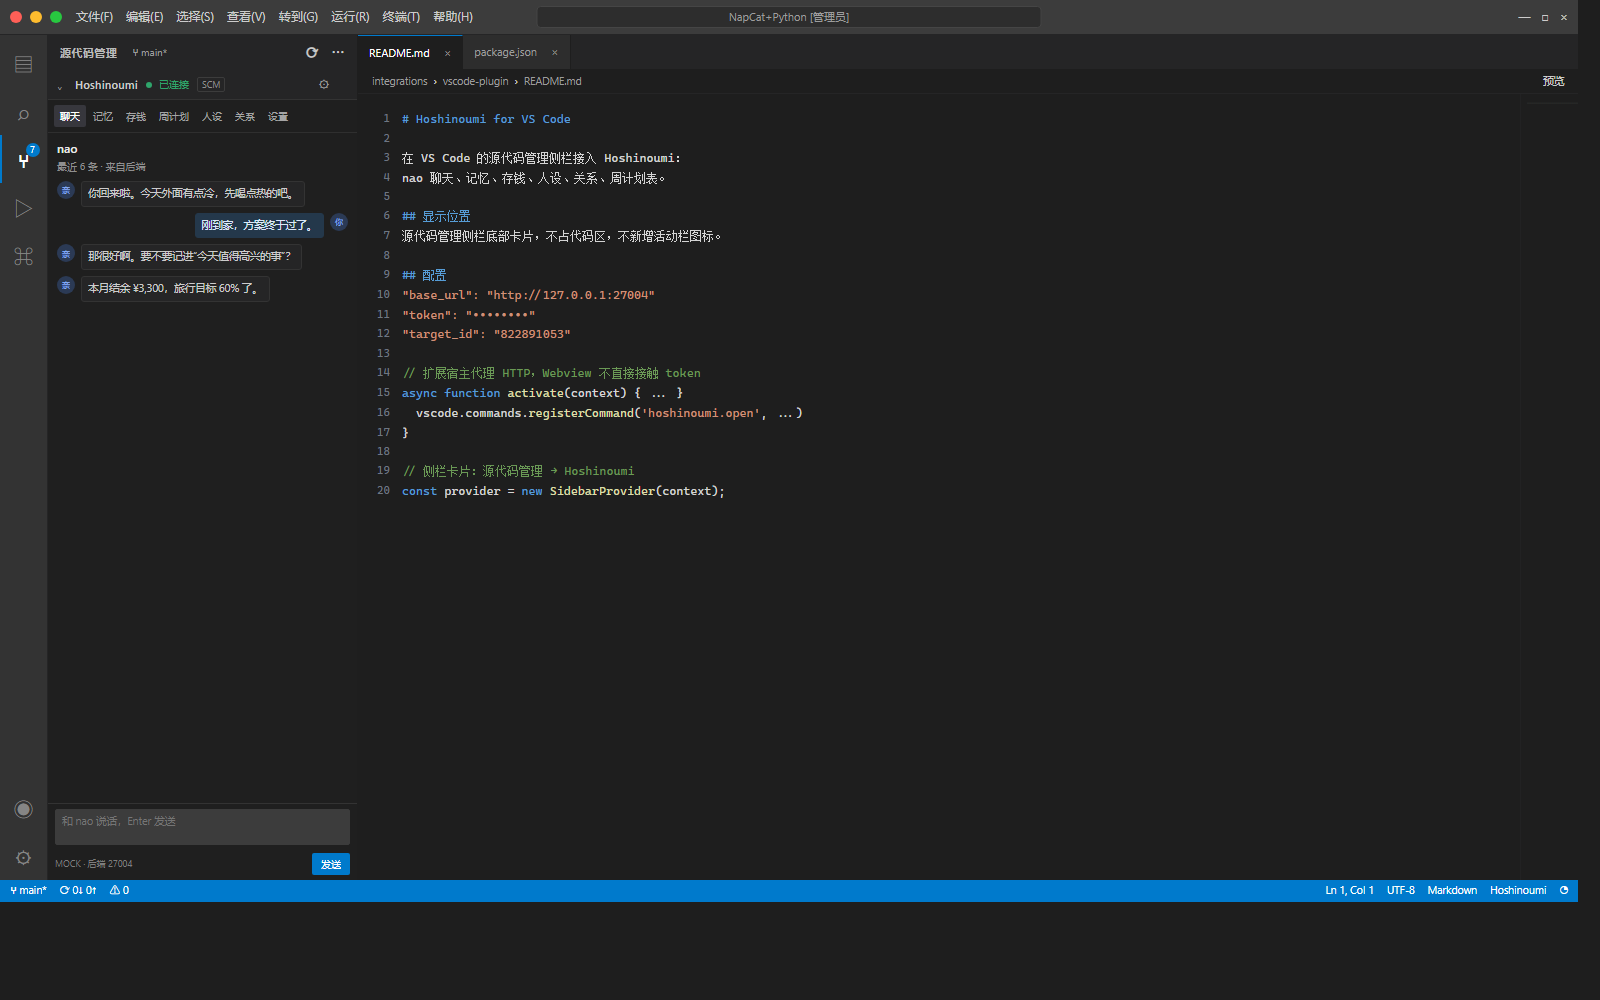
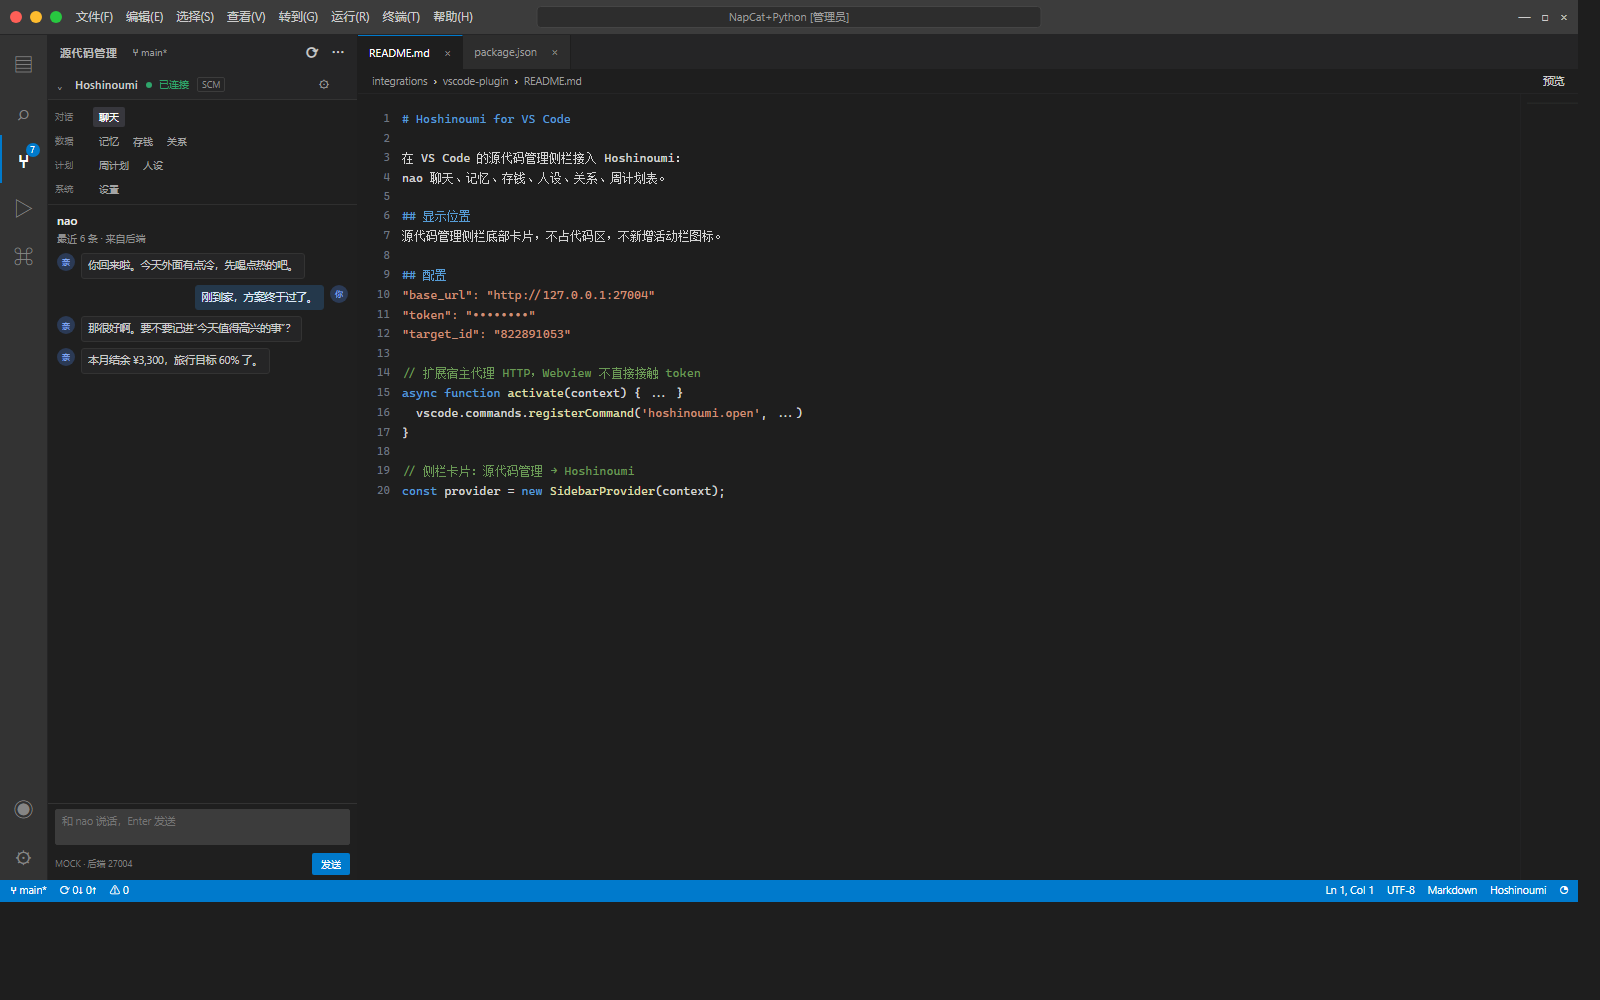
docs(v35): VS Code SCM 板块拆分与开发计划

Changed region(s): [[0.0312, 0.093, 0.2188, 0.372]]

diff --git a/docs/design/v35/vscode/hoshinoumi-sidebar-demo.html b/docs/design/v35/vscode/hoshinoumi-sidebar-demo.html
@@ -75,7 +75,7 @@ button{border:0;background:none;padding:0;cursor:pointer}
 .minimap{width:58px;flex:none;background:#1e1e1e;border-left:1px solid #252526;padding:8px 6px;color:#3a3a3a;font-size:2px;line-height:3px;overflow:hidden;opacity:.65}
 .statusbar{height:22px;flex:none;background:#007acc;color:#fff;display:flex;align-items:center;gap:13px;padding:0 10px;font-size:10.5px}.statusbar .right{margin-left:auto;display:flex;gap:13px;align-items:center}.statusbar .icon{font-size:12px}
 .toast{position:fixed;right:16px;bottom:34px;background:#252526;border:1px solid #454545;color:#cccccc;font-size:11px;padding:7px 11px;border-radius:2px;box-shadow:0 4px 16px rgba(0,0,0,.4);opacity:0;transform:translateY(5px);transition:.18s;pointer-events:none;z-index:20}.toast.on{opacity:1;transform:none}
-.scm-head .branch{margin-left:8px;font-size:10px;color:#9d9d9d;font-weight:400;text-transform:none;letter-spacing:0}.h-head .scope{font-size:9px;color:#8f8f8f;border:1px solid #3c3c3c;border-radius:2px;padding:0 4px;margin-left:2px}</style>
+.scm-head .branch{margin-left:8px;font-size:10px;color:#9d9d9d;font-weight:400;text-transform:none;letter-spacing:0}.h-head .scope{font-size:9px;color:#8f8f8f;border:1px solid #3c3c3c;border-radius:2px;padding:0 4px;margin-left:2px}.h-nav{flex:none;padding:5px 7px 3px;border-bottom:1px solid #2f2f2f}.hn-row{display:flex;align-items:center;gap:2px;min-height:24px}.hn-label{width:36px;flex:none;font-size:9px;color:#7d7d7d;letter-spacing:.04em}.hn-row .h-tab{height:20px;padding:0 6px;font-size:10px}</style>
 </head>
 <body>
 <div class="window">
@@ -100,8 +100,11 @@ button{border:0;background:none;padding:0;cursor:pointer}
    <div class="scm-head"><span>源代码管理</span><span class="branch">⑂ main*</span><div class="actions"><span>⟳</span><span>⋯</span></div></div>
    <section class="hoshi" id="hoshi">
     <div class="h-head" onclick="toggleHoshi(event)"><span class="chev" id="chev">⌄</span><b>Hoshinoumi</b><span class="dot"></span><span class="state">已连接</span><span class="scope">SCM</span><span class="act" onclick="event.stopPropagation();toast('Hoshinoumi 设置（模拟）')">⚙</span></div>
-    <div class="h-tabs" id="tabs">
-     <button class="h-tab on" data-p="chat">聊天</button><button class="h-tab" data-p="memory">记忆</button><button class="h-tab" data-p="savings">存钱</button><button class="h-tab" data-p="weekly">周计划</button><button class="h-tab" data-p="persona">人设</button><button class="h-tab" data-p="relation">关系</button><button class="h-tab" data-p="settings">设置</button>
+    <div class="h-nav" id="tabs">
+     <div class="hn-row"><span class="hn-label">对话</span><button class="h-tab on" data-p="chat">聊天</button></div>
+     <div class="hn-row"><span class="hn-label">数据</span><button class="h-tab" data-p="memory">记忆</button><button class="h-tab" data-p="savings">存钱</button><button class="h-tab" data-p="relation">关系</button></div>
+     <div class="hn-row"><span class="hn-label">计划</span><button class="h-tab" data-p="weekly">周计划</button><button class="h-tab" data-p="persona">人设</button></div>
+     <div class="hn-row"><span class="hn-label">系统</span><button class="h-tab" data-p="settings">设置</button></div>
     </div>
     <div class="h-body" id="body"></div>
     <div class="h-compose" id="compose"><textarea id="msg" placeholder="和 nao 说话，Enter 发送"></textarea><div class="h-sendrow"><span class="hint">MOCK · 后端 27004</span><button onclick="send()">发送</button></div></div>

diff --git a/docs/design/v35/vscode/DEVELOPMENT.md b/docs/design/v35/vscode/DEVELOPMENT.md
@@ -1,0 +1,171 @@
+# Hoshinoumi for VS Code · 开发文档
+
+## 1. 定位
+
+一个 VS Code 扩展，在**源代码管理（SCM）整栏**中显示 Hoshinoumi 客户端。
+
+- 不占代码编辑区
+- 不打开额外 WebviewPanel
+- 不做独立命令中心
+- 侧栏宽度约 300–320px
+- 视觉使用 VS Code 主题变量（Dark+ / Light+ 自动适配）
+- 所有数据来自 Hoshinoumi 后端；没有后端时显示未连接，不伪造数据
+
+> VS Code API 不允许扩展替换内置的 Source Control 视图。实现上使用一个 SCM 风格的独立 Activity Bar 容器，整栏显示 Hoshinoumi；视觉效果与设计稿一致，但不覆盖 VS Code 自带的“更改/存储库/图表”。
+
+## 2. 模块拆分
+
+### 2.1 扩展宿主
+
+文件：`integrations/vscode-plugin/extension.js`
+
+职责：
+
+- 读写配置（`context.globalState`）
+- 保存 token，不暴露给 Webview
+- 代理 HTTP 请求到 Hoshinoumi
+- 统一错误、超时、状态码
+- 注册 SCM 侧栏 View
+- 注册命令
+
+不负责：
+
+- 页面渲染
+- 业务文案
+- 直接操作数据库
+
+### 2.2 侧栏壳
+
+文件：`integrations/vscode-plugin/media/sidebar.html`
+
+职责：
+
+- SCM 整栏布局
+- Hoshinoumi 标题、连接状态、折叠
+- 板块导航
+- 页面容器
+- 输入框/发送按钮
+- VS Code 主题变量
+
+### 2.3 业务板块
+
+| 板块 | 主要接口 | 内容 |
+|---|---|---|
+| 聊天 | `history` / `chat` | 最近消息、发送、连接状态 |
+| 记忆 | `/api/memory` | 目标列表、条数、最后一条 |
+| 存钱 | `/api/savings`、`/api/balance`、`/api/savings/entries` | 总余额、账户、API 余额、记一笔 |
+| 周计划 | `/api/weekly-plan`、`/api/weekly-plan/import` | 周次、课程、导入 HTML |
+| 人设 | `/api/persona` | 卡片、文件清单、摘要 |
+| 关系 | `/api/relation` | 亲密度、档位、最近变化 |
+| 设置 | `config` / `test` | 后端地址、token、主人 QQ、连接测试 |
+
+每个板块必须：
+
+- 有加载态
+- 有错误态
+- 有未配置态
+- 不显示上一板块的旧数据
+- 切换板块时保留滚动位置（可选）
+
+### 2.4 Webview 通信
+
+Webview 不直接 fetch。统一走：
+
+```text
+Webview postMessage
+→ extension host handleRequest
+→ Hoshinoumi HTTP
+→ postMessage response
+```
+
+消息：
+
+```json
+{ "type": "hoshinoumi:request", "id": 1, "path": "/api/hoshinoumi/...", "method": "GET", "body": null }
+```
+
+返回：
+
+```json
+{ "type": "hoshinoumi:response", "id": 1, "status": 200, "data": {} }
+```
+
+规则：
+
+- 30 秒超时
+- 非 2xx 返回错误，不抛到 Webview 外
+- token 只在宿主拼接 Authorization
+- 配置保存后必须实际请求 `/healthz` + `/readyz` 才显示已连接
+
+## 3. 页面结构
+
+```text
+SCM 侧栏
+├─ 标题 Hoshinoumi · 状态
+├─ 对话
+│  └─ 聊天
+├─ 数据
+│  ├─ 记忆
+│  ├─ 存钱
+│  └─ 关系
+├─ 计划
+│  ├─ 周计划
+│  └─ 人设
+└─ 系统
+   └─ 设置
+```
+
+聊天板块底部固定输入框；其他板块隐藏输入框。
+
+## 4. 版本拆分
+
+| 版本 | 内容 | 验收 |
+|---|---|---|
+| v35.2.26.0 | VS Code 扩展骨架、SCM 整栏 View、配置代理 | 侧栏出现 Hoshinoumi，能保存/测试连接 |
+| v35.2.27.0 | 聊天板块：历史、发送、连接状态 | 能在侧栏和 nao 聊天 |
+| v35.2.28.0 | 记忆 + 关系板块 | 能看目标、记忆摘要、关系档位/事件 |
+| v35.2.29.0 | 存钱板块：总览、API 余额、记一笔 | 能看余额并写一笔 |
+| v35.2.30.0 | 周计划板块：周次、课程、HTML 导入 | 能按周查看和导入 |
+| v35.2.31.0 | 人设 + 设置板块 | 能看人设卡、改配置 |
+| v35.2.32.0 | 打包、安装、主题/窄栏适配、验收 | VSIX 可安装，Dark+/Light+ 正常 |
+
+## 5. 验收标准
+
+- 侧栏宽度 300px 时不横向滚动
+- 切换板块不闪烁、不残留旧数据
+- token 不出现在 DOM、日志、错误文本
+- 后端未启动时显示“未连接”，不显示假数据
+- 关系仅 owner 可查全部；普通用户只显示自己
+- 周计划表第 3 周导入你给的教务 HTML 能显示命中课程
+- 存钱新增后总余额刷新
+- 关闭/重开 VS Code 后配置保留
+
+## 6. 文件结构
+
+```text
+integrations/vscode-plugin/
+├─ package.json
+├─ extension.js
+├── media/
+│  ├─ sidebar.html       # 当前单文件设计稿
+│  └─ nao.svg
+├─ README.md
+└─ hoshinoumi-vscode.vsix
+```
+
+后续拆分：
+
+```text
+media/
+├─ sidebar.html          # 壳
+├─ styles/sidebar.css
+├─ bridge.js
+└─ panels/
+   ├─ chat.js
+   ├─ memory.js
+   ├─ savings.js
+   ├─ weekly.js
+   ├─ persona.js
+   ├─ relation.js
+   └─ settings.js
+```

diff --git a/docs/versions/v35.md b/docs/versions/v35.md
@@ -208,6 +208,13 @@ v35.2.22.0  周计划表导入（HTML/CSV/ICS）
 v35.2.23.0  存钱页 API 余额
 v35.2.24.0  存钱记一笔 / 关联事件 / AI 可见
 v35.2.25.0  后端：导入审计 / 权限 / 回滚
+v35.2.26.0  VS Code 扩展骨架 / SCM 整栏
+v35.2.27.0  VS Code 聊天板块
+v35.2.28.0  VS Code 记忆 + 关系板块
+v35.2.29.0  VS Code 存钱板块
+v35.2.30.0  VS Code 周计划板块
+v35.2.31.0  VS Code 人设 + 设置板块
+v35.2.32.0  VS Code 打包 / 主题 / 验收
 ```
 
 | 版本             | 内容                                         | 开发思路                                                                                         | 验收                     |
@@ -268,6 +275,16 @@ HTML：解析 #KebiaoTable1 的 SjdXY 与 dl/dt/dd
 | **v35.2.23.0** | `GET /api/balance`：DeepSeek `/user/balance`；缓存/超时；仅 owner；失败返回未知              |
 | **v35.2.24.0** | 存钱记一笔：金额/日期/账户/类型/备注；关联/新建事件；AI 可见开关                             | 能手动记账并选择 AI 是否知道 |
 | **v35.2.25.0** | 导入审计：批次/来源/行数/结果；owner-only；幂等；回滚；契约与迁移测试                        |
+| **v35.2.26.0** | VS Code 扩展骨架：SCM 整栏 View、配置代理、错误/未配置态 | 侧栏出现 Hoshinoumi，连接测试可用 |
+| **v35.2.27.0** | VS Code 聊天板块：历史、发送、滚动/输入 | 能在 SCM 侧栏和 nao 聊天 |
+| **v35.2.28.0** | VS Code 记忆 + 关系板块 | 能看目标、记忆摘要、关系档位/事件 |
+| **v35.2.29.0** | VS Code 存钱板块：总览/API 余额/记一笔 | 能看余额并写入一笔 |
+| **v35.2.30.0** | VS Code 周计划板块：周次/课程/HTML 导入 | 能按周查看和导入 |
+| **v35.2.31.0** | VS Code 人设 + 设置板块 | 能看人设卡、改后端配置 |
+| **v35.2.32.0** | VS Code 打包 / 主题 / 窄栏 / 验收 | VSIX 可安装，Dark+/Light+ 正常 |
+
+
+> VS Code 客户端的模块拆分、接口、验收见 [docs/design/v35/vscode/DEVELOPMENT.md](../design/v35/vscode/DEVELOPMENT.md)。
 
 ```text
 后端先于对应插件 UI
